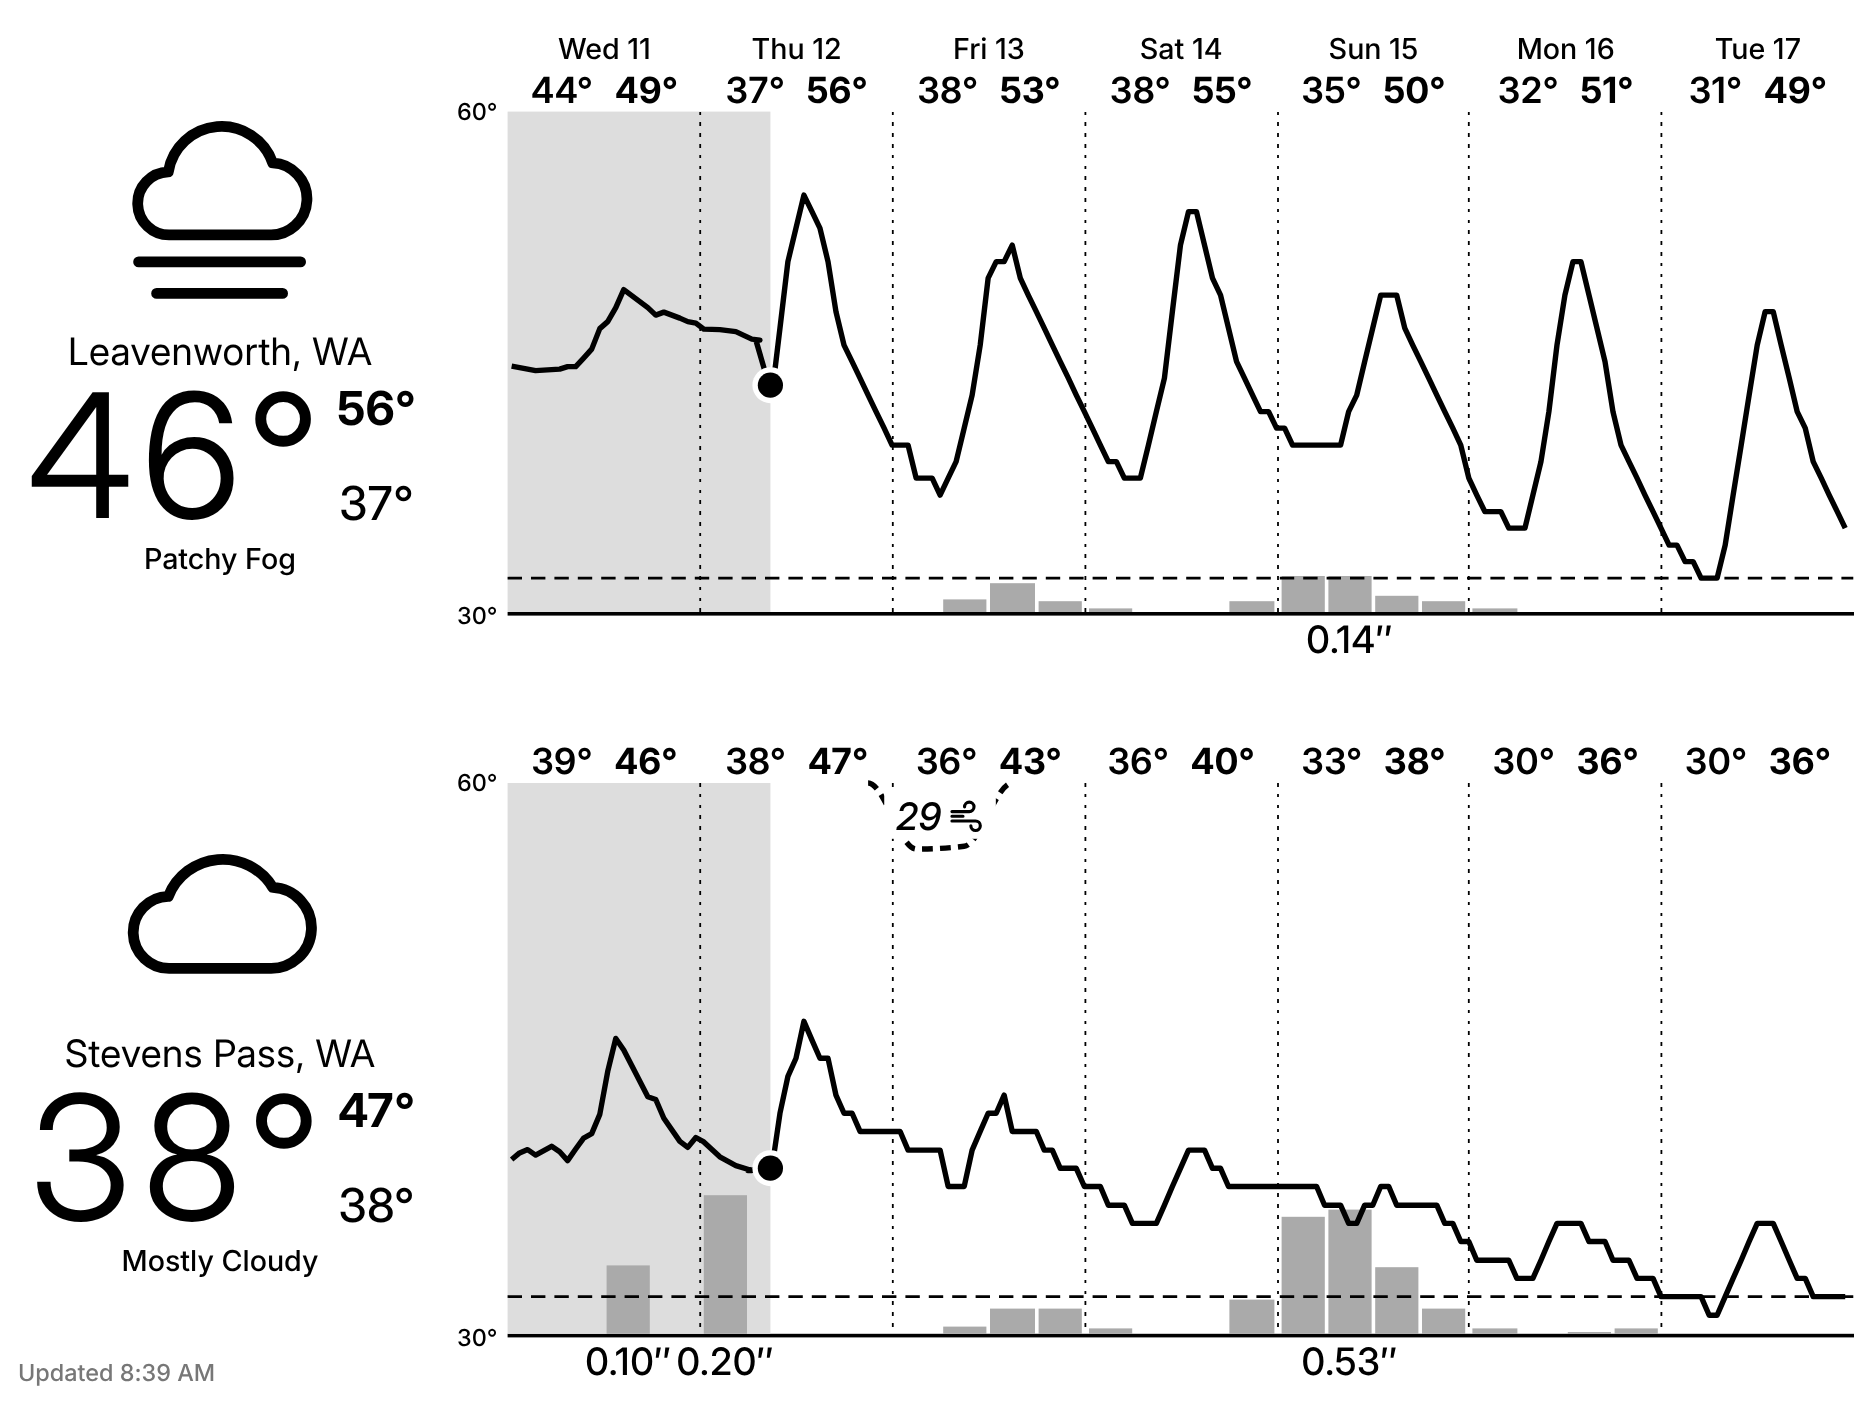
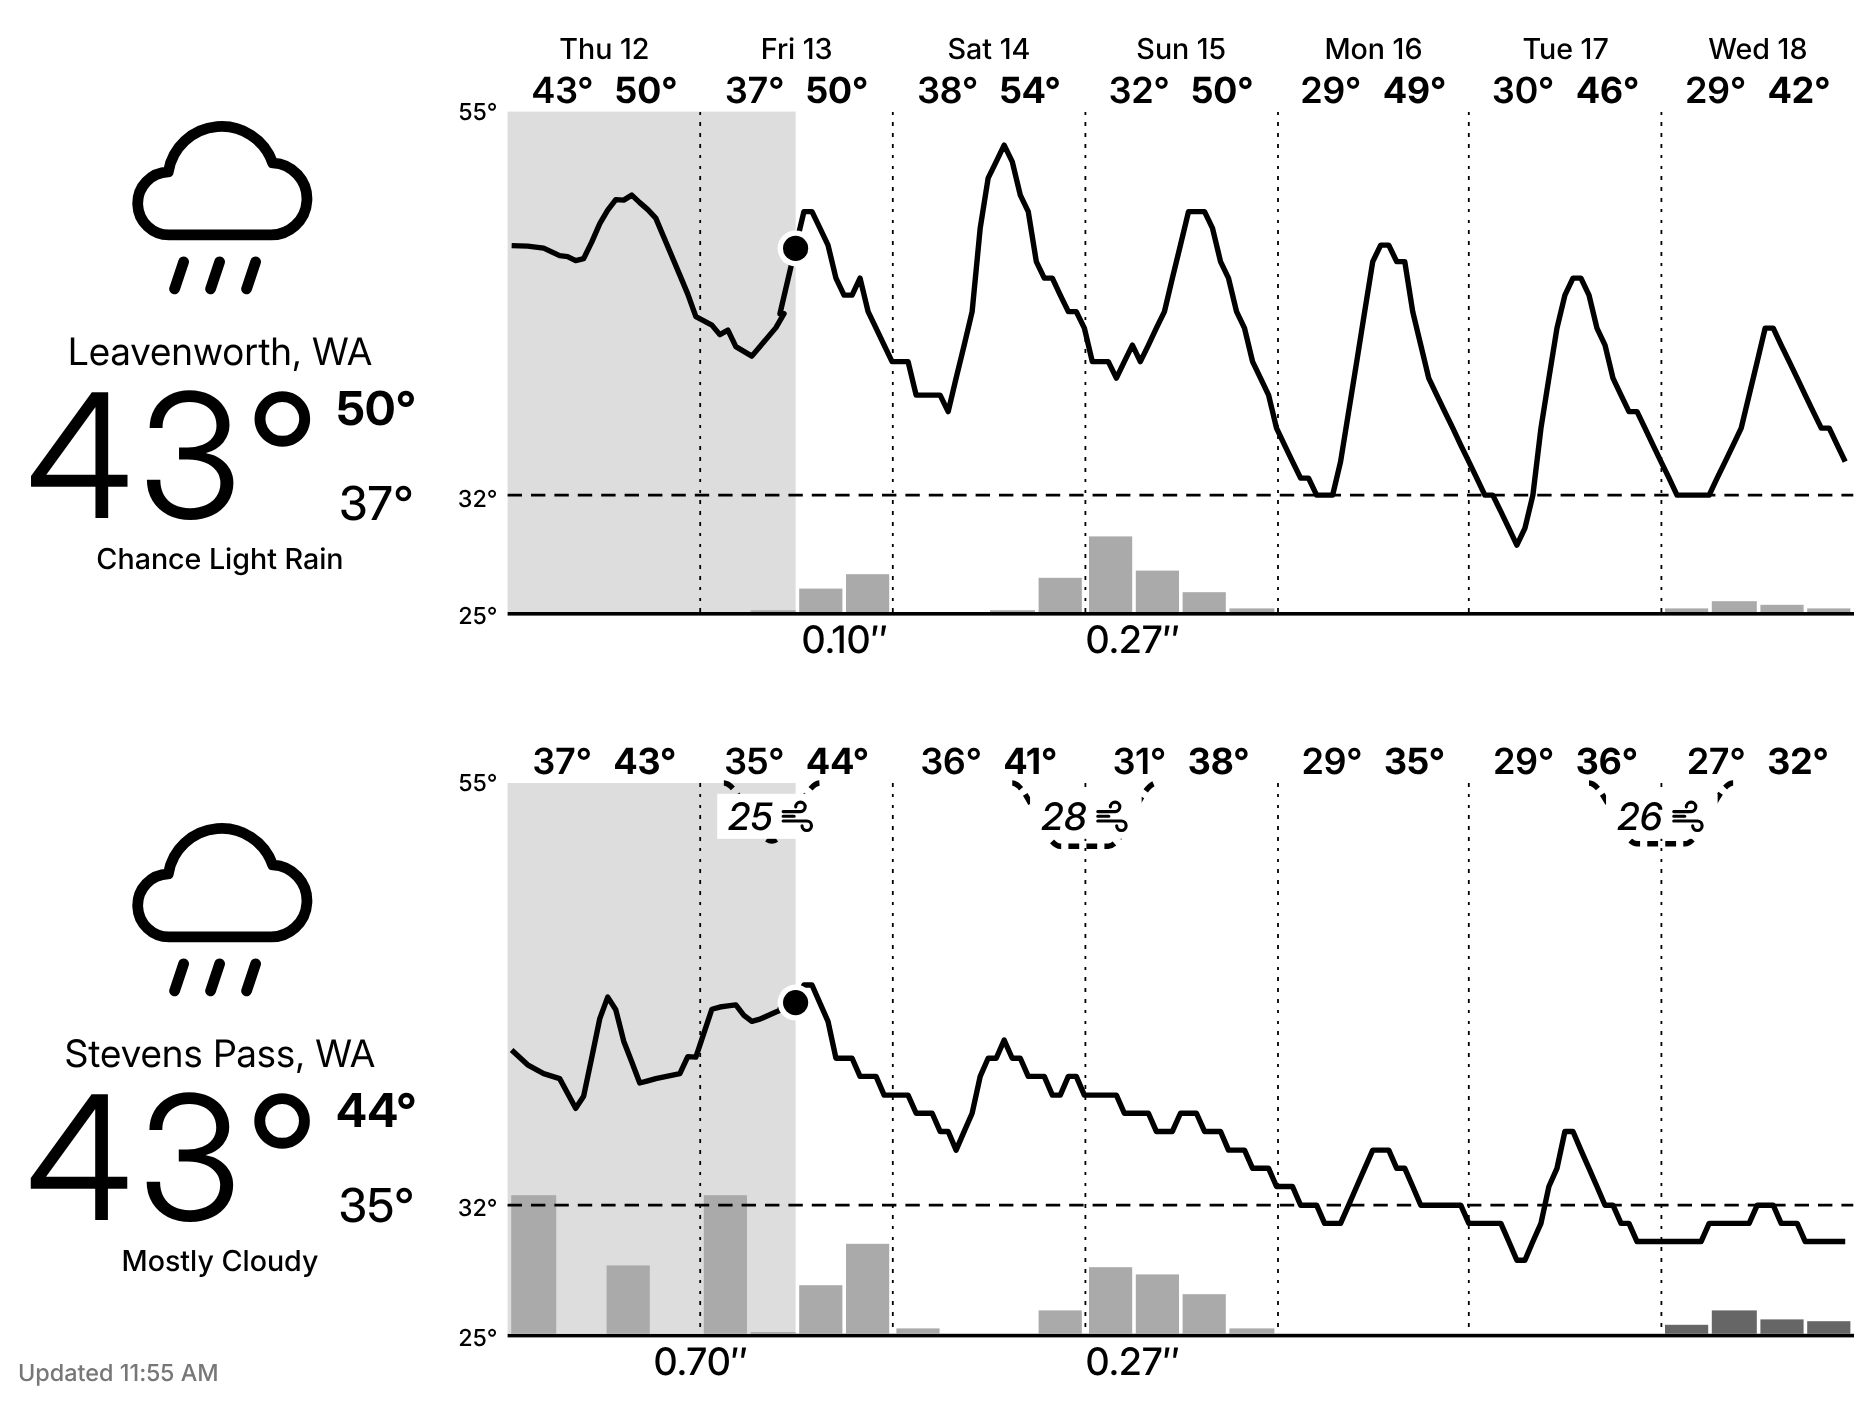
Combine sporadic rain into one storm so labels don't overlap
A single dry 6-hour block is now a lull inside a storm rather than the end
of one, and storms whose labels would land within 10% of the chart's width
of each other are combined.

Claude-Session: https://claude.ai/code/session_018zBtTfGxqR6ysBZYHYeVbJ

diff --git a/server/forecast/glance_test.go b/server/forecast/glance_test.go
@@ -833,27 +833,34 @@ func TestWind(t *testing.T) {
 
 func TestStorms(t *testing.T) {
 	loc, _ := time.LoadLocation("America/Los_Angeles")
-	now := time.Date(2026, 11, 2, 0, 0, 0, 0, loc)
-	grid := GridData{}
-	add := func(series *GridSeries, h int, v float64) {
-		series.Values = append(series.Values, struct {
-			ValidTime string   `json:"validTime"`
-			Value     *float64 `json:"value"`
-		}{time.Date(2026, 11, 2, h, 0, 0, 0, loc).Format(time.RFC3339) + "/PT6H", &v})
+	start := time.Date(2026, 11, 2, 0, 0, 0, 0, loc)
+	build := func(ndays int, rain map[int]float64) []Storm {
+		grid := GridData{}
+		for k, in := range rain { // block -> inches
+			mm := in * 25.4
+			grid.Properties.QuantitativePrecipitation.Values = append(grid.Properties.QuantitativePrecipitation.Values, struct {
+				ValidTime string   `json:"validTime"`
+				Value     *float64 `json:"value"`
+			}{start.Add(time.Duration(k*6)*time.Hour).Format(time.RFC3339) + "/PT6H", &mm})
+		}
+		return buildChart(&grid, make([]Day, ndays), loc, start, "us", "auto", nil, nil, 0).Storms
 	}
-	q := &grid.Properties.QuantitativePrecipitation
-	add(q, 0, 0.2)   // 0.008″: too light to count
-	add(q, 6, 2.54)  // 0.10″ \ one storm, blocks 1-2 (6 AM-6 PM), centered at 25%: 0.30″
-	add(q, 12, 5.08) // 0.20″ /
-	add(q, 18, 0.25) // 0.01″: a break
-	add(q, 24, 1.0)  // 0.04″: a storm too light to label
-	add(q, 36, 7.62) // 0.30″ and snow: 3″
-	add(&grid.Properties.SnowfallAmount, 36, 76.2)
-	days := make([]Day, 2)
-	c := buildChart(&grid, days, loc, now, "us", "auto", nil, nil, 0)
-	want := []Storm{{X: 25, Labels: []string{"0.30″"}}, {X: 81.3, Labels: []string{"3.0″"}}}
-	if !reflect.DeepEqual(c.Storms, want) {
-		t.Errorf("storms = %+v", c.Storms)
+	// One dry block is a lull inside a storm; two end it. Blocks under 0.02″ count as dry.
+	got := build(3, map[int]float64{0: 0.10, 1: 0.01, 2: 0.20, 5: 0.15})
+	want := []Storm{{X: 12.5, Labels: []string{"0.31″"}}, {X: 45.8, Labels: []string{"0.15″"}}}
+	if !reflect.DeepEqual(got, want) {
+		t.Errorf("storms = %+v, want %+v", got, want)
+	}
+	// A light storm on its own isn't labeled.
+	if got := build(3, map[int]float64{0: 0.04}); len(got) != 0 {
+		t.Errorf("light storm = %+v", got)
+	}
+	// On a longer chart, storms three blocks apart would print their labels on top of each other,
+	// so they're combined: blocks 10 and 13 of 40, 7.5% apart.
+	got = build(10, map[int]float64{10: 0.20, 13: 0.30})
+	want = []Storm{{X: 30, Labels: []string{"0.50″"}}}
+	if !reflect.DeepEqual(got, want) {
+		t.Errorf("close storms = %+v, want %+v", got, want)
 	}
 }
 

diff --git a/server/forecast/chart.go b/server/forecast/chart.go
@@ -324,13 +324,13 @@ func (c *Chart) fillBars(grid *GridData, days []Day, start, end, today, now time
 		}
 	}
 
-	// Storms: runs of wet blocks, each labeled with its totals.
+	// Storms: runs of wet blocks, each labeled with its totals. A single dry block between two runs
+	// is a lull, not the end of a storm; and storms whose labels would collide are combined.
 	minSnow, minRain := stormMinSnowIn, stormMinRainIn
 	if units == "si" {
 		minSnow, minRain = stormMinSnowCm, stormMinRainMm
 	}
-	c.Storms = []Storm{}
-	for _, r := range runs(len(buckets), func(k int) bool { return buckets[k].snow >= minSnow || buckets[k].rain >= minRain }) {
+	label := func(r [2]int) (Storm, bool) {
 		sn, rn := 0.0, 0.0
 		for _, b := range buckets[r[0] : r[1]+1] {
 			sn, rn = sn+b.snow, rn+b.rain
@@ -342,7 +342,27 @@ func (c *Chart) fillBars(grid *GridData, days []Day, start, end, today, now time
 		if roundAmount(rn, "rain", units) >= sprinkles {
 			s.Labels = append(s.Labels, formatAmount(rn, "rain", units))
 		}
-		if len(s.Labels) > 0 {
+		return s, len(s.Labels) > 0
+	}
+	spans := joinRuns(runs(len(buckets), func(k int) bool { return buckets[k].snow >= minSnow || buckets[k].rain >= minRain }), stormMaxLull)
+	labeled := [][2]int{}
+	for _, r := range spans {
+		if _, ok := label(r); !ok {
+			continue
+		}
+		if n := len(labeled); n > 0 {
+			prev, _ := label(labeled[n-1])
+			cur, _ := label(r)
+			if cur.X-prev.X < minStormLabelGap {
+				labeled[n-1][1] = r[1] // too close to label apart: one storm
+				continue
+			}
+		}
+		labeled = append(labeled, r)
+	}
+	c.Storms = []Storm{}
+	for _, r := range labeled {
+		if s, ok := label(r); ok {
 			c.Storms = append(c.Storms, s)
 		}
 	}

diff --git a/server/forecast/storms.go b/server/forecast/storms.go
@@ -16,6 +16,27 @@ const (
 	stormMinRainMm, stormMinSnowCm = 0.5, 0.5
 )
 
+// stormMaxLull is how many dry blocks in a row can sit inside one storm; minStormLabelGap is how
+// close (in % of the chart's width) two storms' labels can be before the storms are combined. A
+// label is about 7% wide on a TRMNL X.
+const (
+	stormMaxLull     = 1
+	minStormLabelGap = 10.0
+)
+
+// joinRuns merges runs separated by at most maxGap indexes.
+func joinRuns(runs [][2]int, maxGap int) [][2]int {
+	out := [][2]int{}
+	for _, r := range runs {
+		if n := len(out); n > 0 && r[0]-out[n-1][1]-1 <= maxGap {
+			out[n-1][1] = r[1]
+			continue
+		}
+		out = append(out, r)
+	}
+	return out
+}
+
 // runs returns the [first, last] index of each run of consecutive blocks for which in is true.
 func runs(n int, in func(int) bool) [][2]int {
 	out := [][2]int{}
